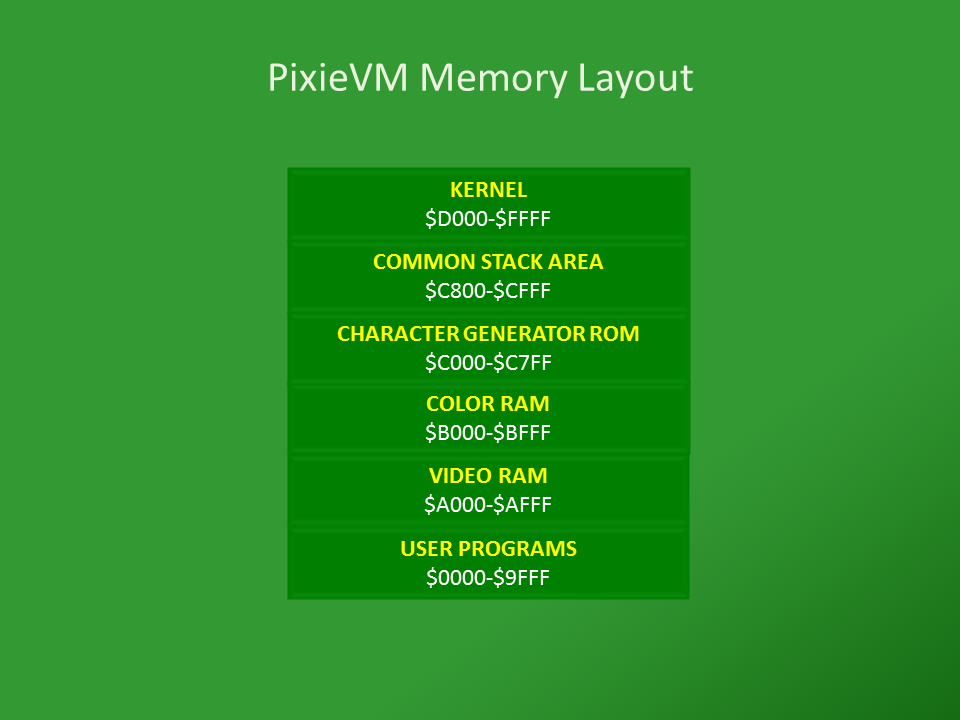
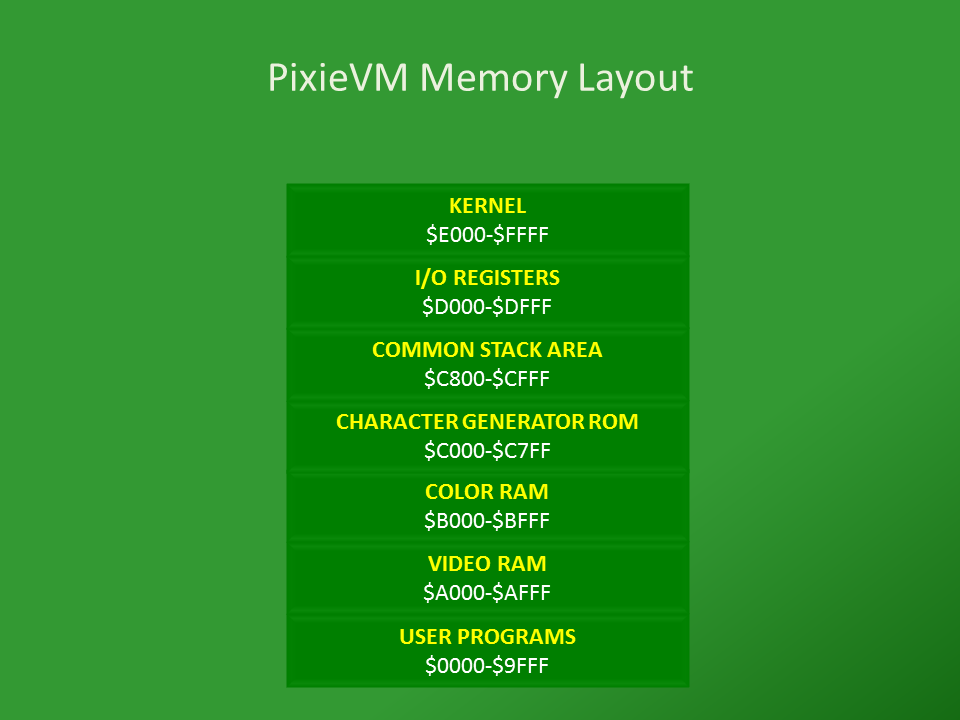
keyboard handler stub and i/o registers and memory layout

Changed region(s): [[0.2812, 0.2139, 0.7188, 0.9778]]

diff --git a/pxemu/KeyboardHandler.h b/pxemu/KeyboardHandler.h
@@ -1,0 +1,34 @@
+/////////////////////////////////////////////////////////////////////////////
+//
+// KEYBOARDHANDLER.H : keyboard handling
+//
+// Copyright (c) 2006-2013, Thomas A. Rieck, All Rights Reserved
+//
+
+#ifndef __KEYBOARD_HANDLER_H__
+#define __KEYBOARD_HANDLER_H__
+
+/////////////////////////////////////////////////////////////////////////////
+template <class T>
+class KeyboardHandler
+{
+	// Construction / Destruction
+public:
+	KeyboardHandler() {}
+	~KeyboardHandler() {}
+
+	// Interface
+	BEGIN_MSG_MAP(KeyboardHandler)
+		MESSAGE_HANDLER(WM_KEYDOWN, OnKeyDown)
+	END_MSG_MAP()
+
+	// Implementation
+private:
+	LRESULT OnKeyDown(UINT uMsg, WPARAM wParam, LPARAM lParam, BOOL& bHandled)
+	{
+		return 0;
+	}
+
+};
+
+#endif // __KEYBOARD_HANDLER_H__

diff --git a/pxemu/RasterHandler.cpp b/pxemu/RasterHandler.cpp
@@ -10,6 +10,9 @@
 #include "Memory.h"
 #include "PixieVM.h"
 
+#define IO_REG_BKGND_COLOR	(0xD000)
+#define IO_REG_BORDER_COLOR	(0xD001)
+
 /////////////////////////////////////////////////////////////////////////////
 RasterHandler::RasterHandler() : m_scanLine(0), m_offset(0)
 {
@@ -25,8 +28,8 @@ RasterHandler::~RasterHandler()
 /////////////////////////////////////////////////////////////////////////////
 void RasterHandler::handle()
 {
-	uint8_t bkgnd_color = m_memory->fetch(KT_BKGND_COLOR);
-	uint8_t border_color = m_memory->fetch(KT_BORDER_COLOR);
+	uint8_t bkgnd_color = m_memory->fetch(IO_REG_BKGND_COLOR);
+	uint8_t border_color = m_memory->fetch(IO_REG_BORDER_COLOR);
 	
 	// handle 4-pixels at a time
 	for (int i = 0; i < 4; ++i) {

diff --git a/pxemu/pxemuView.h b/pxemu/pxemuView.h
@@ -5,9 +5,12 @@
 #pragma once
 
 #include "Canvas.h"
+#include "KeyboardHandler.h"
 
-class CPxemuView : public CWindowImpl<CPxemuView>
+class CPxemuView : public CWindowImpl<CPxemuView>, 
+	public KeyboardHandler<CPxemuView>
 {
+	typedef KeyboardHandler<CPxemuView> KeyboardHandlerBase;
 private:
 	Canvas* m_pCanvas;
 public:
@@ -23,6 +26,7 @@ public:
 		MSG_WM_PAINT(OnPaint)
 		MSG_WM_CREATE(OnCreate)
 		MSG_WM_DESTROY(OnDestroy)
+		CHAIN_MSG_MAP(KeyboardHandlerBase)
 	END_MSG_MAP()
 
 // Handler prototypes (uncomment arguments if needed):

diff --git a/base/PixieVM.h b/base/PixieVM.h
@@ -59,8 +59,7 @@
 
 #define TOP_STACK_AREA			(0xCFFF)
 
-// kernel data table
-#define KT_BKGND_COLOR			(0xFF06)
-#define KT_BORDER_COLOR			(0xFF07)
+#define IO_REGISTER_BASE		(0xD000)
+#define IO_REGISTER_SIZE		(0x1000)
 
 #endif // __PIXIEVM_H__
